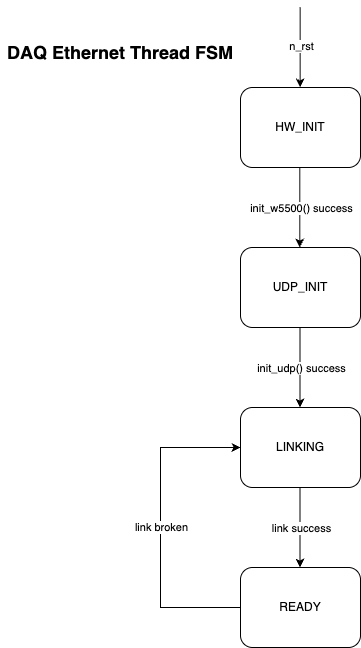
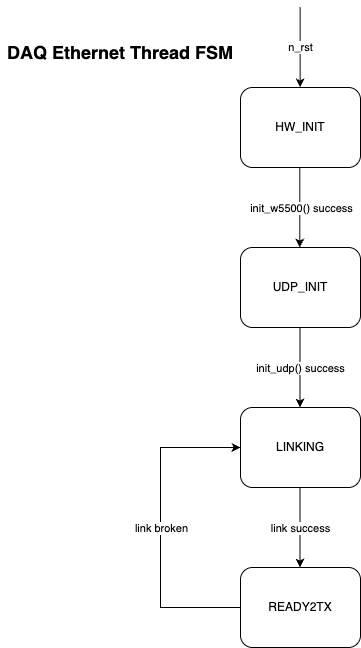
update name

diff --git a/source/daq/ethernet/ethernet.c b/source/daq/ethernet/ethernet.c
@@ -16,7 +16,7 @@
 
 #include "ethernet.h"
 
-static constexpr uint8_t DAQ_UDP_SOCKET_NUM = 0;
+static constexpr uint8_t DAQ_UDP_SOCKET_NUM   = 0;
 static constexpr uint16_t DAQ_UDP_SOCKET_PORT = 5005;
 
 static ethernet_config_t config = {
@@ -140,10 +140,10 @@ void ethernet_periodic(void) {
             osDelay(200); // block for a bit between each link check
 
             if (is_linked()) {
-                next_state = ETHERNET_STATE_READY;
+                next_state = ETHERNET_STATE_READY2TX;
             }
             break;
-        case ETHERNET_STATE_READY:
+        case ETHERNET_STATE_READY2TX:
             eth_ready_periodic();
             osDelay(10); // 100 Hz tx rate
 

diff --git a/source/daq/ethernet/ethernet.h b/source/daq/ethernet/ethernet.h
@@ -17,7 +17,7 @@ typedef enum {
     ETHERNET_STATE_HW_INIT    = 0,
     ETHERNET_STATE_UDP_INIT   = 1,
     ETHERNET_STATE_LINKING    = 2,
-    ETHERNET_STATE_READY      = 3,
+    ETHERNET_STATE_READY2TX   = 3,
     ETHERNET_STATE_RECOVERING = 4,
     ETHERNET_STATE_FATAL      = 5,
 } ethernet_state_t;